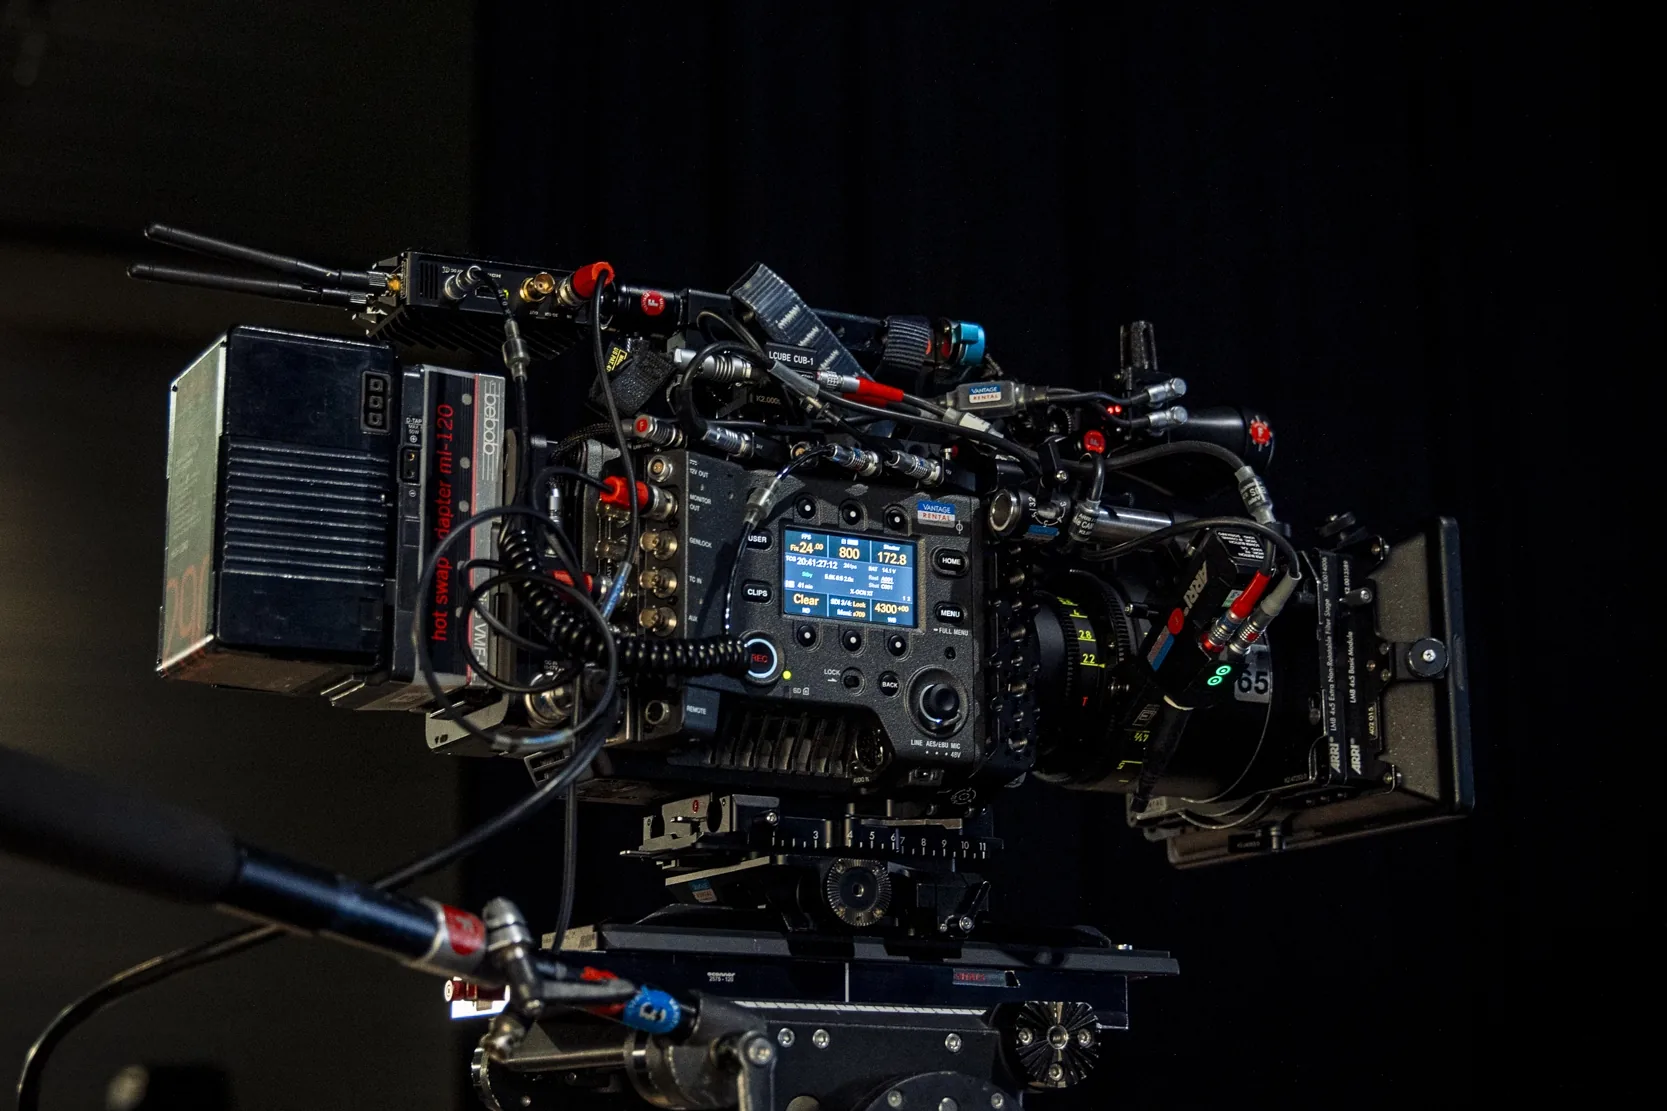
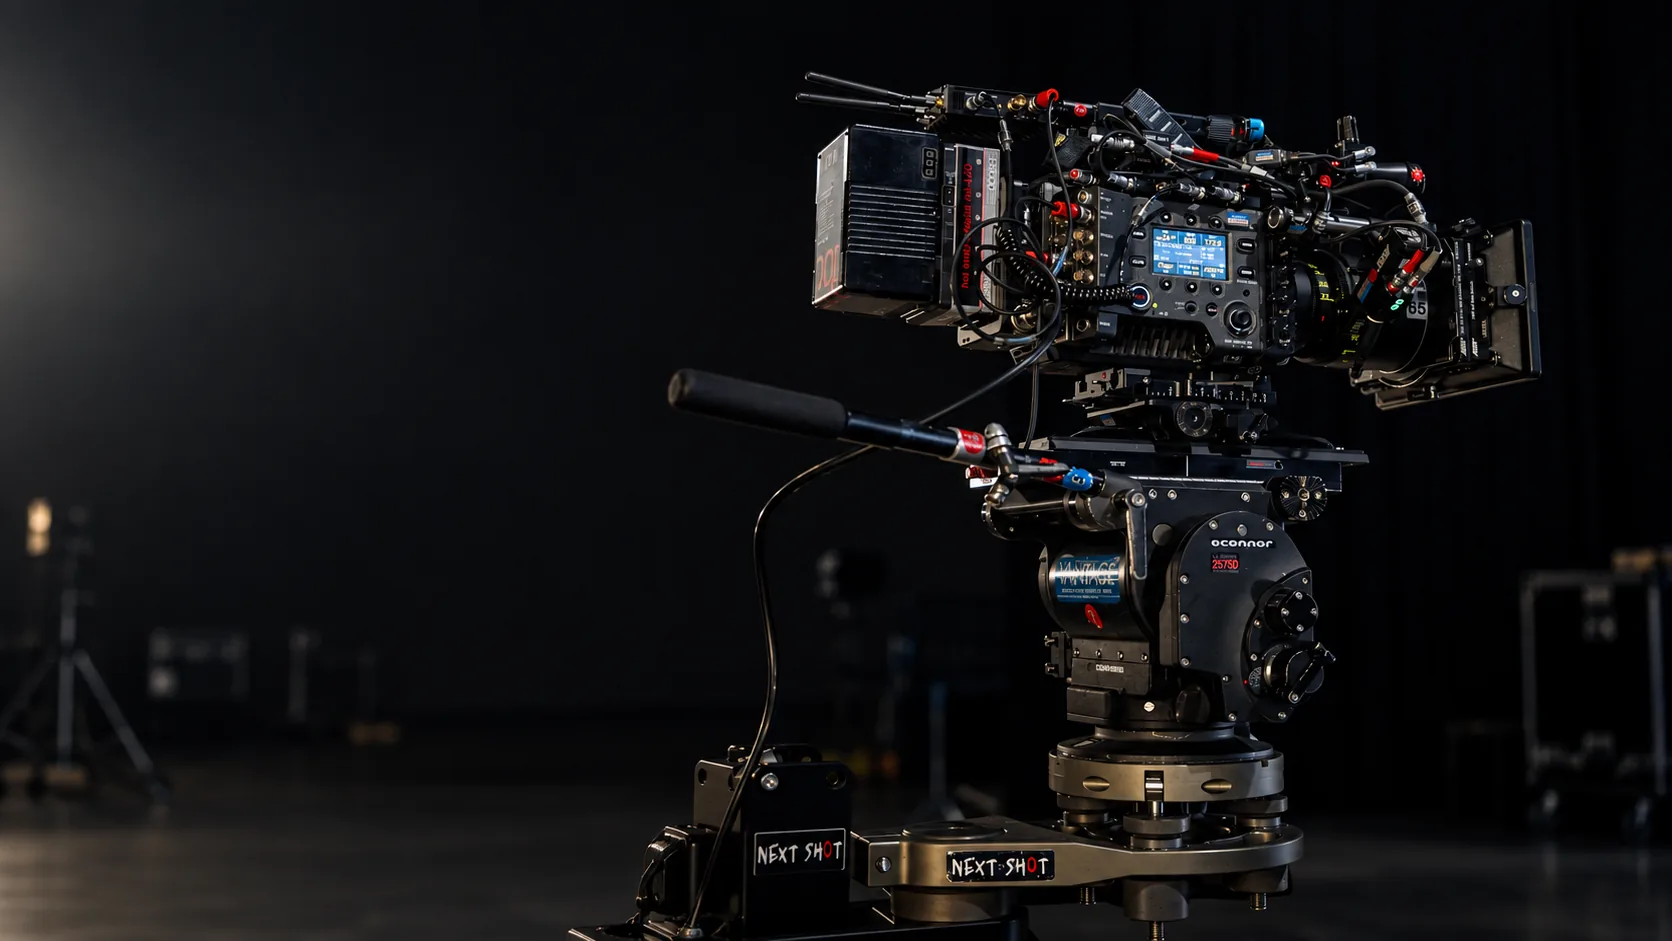
feat(audiovisuel): deux cadrages d'en-tete, un paysage et un portrait
Peter a fourni deux versions retravaillees de sa prise de vue : un 16:9
(1672x941) et un 9:16 (941x1672). Le paysage place le rig a droite, ce qui
libere le studio sombre sous le titre — bien meilleur que le recadrage que
j'avais fait moi-meme au centre.

C'est de la **direction artistique**, pas du choix de resolution : deux
compositions differentes selon la largeur. `PageHeader` recoit donc une prop
`imageMobile` optionnelle et, quand elle est presente, rend un `<picture>`
au lieu de `next/image`.

Pourquoi `<picture>` et pas `next/image` : ce dernier fait du resolution
switching, la meme image a plusieurs largeurs, et ignore un `srcSet`
manuel. Les deux contournements courants sont pires — deux `<Image>` dont
un masque en `display:none` sont **tous deux telecharges**, ce qui doublerait
le poids sur la page dont on surveille justement le LCP. Avec
`<source media>`, le navigateur ne prend que la variante retenue : verifie
en CDP, 1 seul fichier telecharge de chaque cote, sur le build de
production comme en dev.

A noter : `@next/next/no-img-element` ne se declenche pas ici. Ce n'est pas
une regle contournee, c'est l'exception que la regle prevoit pour un `<img>`
enfant de `<picture>` — soit exactement ce motif.

Palier a 900 px, celui ou `.page-header.has-photo` change deja de
comportement dans globals.css. Un seul palier, au meme endroit. Deux regles
CSS ajoutees pour que l'`<img>` nu remplisse le cadre comme le faisait
`fill`, que `next/image` posait en style inline.
[…]

diff --git a/src/components/sections/PageHeader.tsx b/src/components/sections/PageHeader.tsx
@@ -29,6 +29,17 @@ type WithPhoto = CommonProps & {
   image: string;
   /** Description de la photo. Obligatoire : ce sont des images de contenu. */
   imageAlt: string;
+  /**
+   * Variante de la photo servie sous 901 px — **direction artistique**, pas
+   * simple changement de résolution : un second cadrage, généralement en
+   * portrait, pour une colonne étroite et haute où `cover` amputerait la
+   * largeur du visuel paysage.
+   *
+   * Sa présence change la façon de rendre l'image (cf. le commentaire du
+   * `<picture>` plus bas). Sans elle, le comportement reste celui des cinq
+   * autres pages à photo, inchangé.
+   */
+  imageMobile?: string;
   /** Cadrage de la photo (CSS object-position). Défaut "72% center". */
   imagePosition?: string;
   /** Tonalité : "dark" (nuit, défaut) ou "bright" (jour, moins assombri). */
@@ -38,6 +49,7 @@ type WithPhoto = CommonProps & {
 type WithoutPhoto = CommonProps & {
   image?: never;
   imageAlt?: never;
+  imageMobile?: never;
   imagePosition?: never;
   photoTone?: never;
 };
@@ -65,6 +77,7 @@ export function PageHeader(props: Props) {
   const photo = props.image
     ? {
         src: props.image,
+        mobileSrc: props.imageMobile,
         alt: props.imageAlt,
         position: props.imagePosition ?? "72% center",
         tone: props.photoTone ?? "dark",
@@ -81,21 +94,67 @@ export function PageHeader(props: Props) {
         {photo ? (
           <>
             <div className="page-header-photo">
-              {/*
-                `priority` : sur ces pages, la photo d'en-tête est l'élément le
-                plus grand au-dessus de la ligne de flottaison, donc le candidat
-                LCP. Sans lui, next/image la charge en `lazy` et retarde
-                justement la mesure qui compte.
-                `sizes="100vw"` : elle occupe toute la largeur du viewport.
-              */}
-              <Image
-                src={photo.src}
-                alt={photo.alt}
-                fill
-                priority
-                sizes="100vw"
-                style={{ objectPosition: photo.position }}
-              />
+              {photo.mobileSrc ? (
+                /*
+                 * Deux cadrages distincts selon la largeur : `<picture>` et
+                 * non `next/image`.
+                 *
+                 * Ce n'est pas un renoncement à l'optimiseur mais la seule
+                 * forme correcte ici. `next/image` fait du **resolution
+                 * switching** — la même image à plusieurs largeurs — alors
+                 * qu'il s'agit de **direction artistique** : deux compositions
+                 * différentes. Les deux contournements habituels sont pires :
+                 * deux `<Image>` dont un masqué en `display:none` sont tous
+                 * deux téléchargés par le navigateur, ce qui double le poids
+                 * sur la page dont on surveille le LCP ; et un `srcSet` manuel
+                 * sur `<Image>` est ignoré.
+                 *
+                 * Avec `<source media>`, le navigateur ne télécharge que la
+                 * variante retenue. Les fichiers sont déjà encodés en WebP à
+                 * la bonne taille (cf. `public/images/CREDITS.md`), donc ce que
+                 * l'optimiseur aurait apporté en plus se limite à l'AVIF et aux
+                 * variantes de densité.
+                 *
+                 * 900 px : le palier auquel `.page-header.has-photo` change
+                 * déjà de comportement dans `globals.css` (min-height au-delà
+                 * de 901 px). Un seul palier, au même endroit.
+                 *
+                 * `fetchPriority="high"` remplace le `priority` de
+                 * `next/image` : sans lui la photo d'en-tête, candidate LCP,
+                 * partirait en file basse.
+                 */
+                <picture>
+                  <source
+                    media="(max-width: 900px)"
+                    srcSet={photo.mobileSrc}
+                  />
+                  <img
+                    src={photo.src}
+                    alt={photo.alt}
+                    fetchPriority="high"
+                    decoding="async"
+                    style={{ objectPosition: photo.position }}
+                  />
+                </picture>
+              ) : (
+                <>
+                  {/*
+                    `priority` : sur ces pages, la photo d'en-tête est l'élément
+                    le plus grand au-dessus de la ligne de flottaison, donc le
+                    candidat LCP. Sans lui, next/image la charge en `lazy` et
+                    retarde justement la mesure qui compte.
+                    `sizes="100vw"` : elle occupe toute la largeur du viewport.
+                  */}
+                  <Image
+                    src={photo.src}
+                    alt={photo.alt}
+                    fill
+                    priority
+                    sizes="100vw"
+                    style={{ objectPosition: photo.position }}
+                  />
+                </>
+              )}
             </div>
             <div className="page-header-photo-scrim" />
             {glow && <div className="page-header-glow" />}

diff --git a/src/app/transport-materiel-audiovisuel-paris/page.tsx b/src/app/transport-materiel-audiovisuel-paris/page.tsx
@@ -425,8 +425,9 @@ export default function TransportMaterielAudiovisuelPage() {
         accent="à Paris &amp; en Île-de-France"
         lead="Caméras, optiques, lumière, machinerie, décors et régie — enlevés chez vos loueurs et livrés sur vos lieux de tournage, 24h/24. Une flotte dédiée de 3 à 20 m³ aux normes Euro 6d, des équipes habituées au matériel sensible, et un dispatch joignable en permanence."
         image="/images/audiovisuel/camera-cinema.webp"
+        imageMobile="/images/audiovisuel/camera-cinema-mobile.webp"
         imageAlt="Caméra de cinéma équipée d'une optique de série, montée sur tête fluide sur un plateau de tournage"
-        imagePosition="60% center"
+        imagePosition="70% center"
         glow={false}
         photoTone="bright"
       />

diff --git a/src/app/globals.css b/src/app/globals.css
@@ -2177,6 +2177,19 @@ section {
 .page-header-photo img {
   object-fit: cover;
 }
+/* En-tête à deux cadrages (`imageMobile`), rendu en `<picture>` plutôt qu'en
+   `next/image` : l'`<img>` nu n'hérite pas du positionnement absolu que `fill`
+   posait en style inline, il faut donc le reproduire ici. Le `<picture>`
+   lui-même est `display: inline` par défaut et ne doit pas créer de boîte. */
+.page-header-photo picture {
+  display: contents;
+}
+.page-header-photo picture > img {
+  position: absolute;
+  inset: 0;
+  width: 100%;
+  height: 100%;
+}
 /* dégradés : sombre à gauche (lisibilité du texte) + pénombre haut/bas */
 .page-header-photo-scrim {
   position: absolute;

diff --git a/public/images/CREDITS.md b/public/images/CREDITS.md
@@ -10,27 +10,49 @@ documentée plus bas (`campagnes/fashion-week-podium.webp`, Pexels).
 | `/express` | `express/van-motion.webp` |
 | `/colis` | `colis/truck-boxes.webp` |
 | `/contact` | `contact/dispatch-desk.webp` |
-| `/transport-materiel-audiovisuel-paris` | `audiovisuel/camera-cinema.webp` |
+| `/transport-materiel-audiovisuel-paris` | `audiovisuel/camera-cinema.webp` + `audiovisuel/camera-cinema-mobile.webp` |
 | `/` (bloc « temps fort ») | `campagnes/fashion-week-podium.webp` |
 
-## `audiovisuel/camera-cinema.webp` — ce qu'elle montre
+## `audiovisuel/` — deux cadrages pour un seul en-tête
 
-Fournie par Peter le 2026-09-16 (`H24_TRANSPORTS_-16.webp`) pour l'en-tête de
-`/transport-materiel-audiovisuel-paris`, restée sans visuel jusque-là.
-Recadrée en bande 3:2 (1667×1111 depuis y=500 sur un original 1667×2500,
-portrait), WebP qualité 82 — **sans agrandissement**, comme
-`express/van-motion.webp` et `colis/truck-boxes.webp`.
+C'est le **seul en-tête du site à deux visuels**, et le seul rendu en
+`<picture>` plutôt qu'en `next/image` (cf. le commentaire dans
+`PageHeader.tsx`). Ce n'est pas du choix de résolution mais de la
+**direction artistique** : deux compositions différentes.
+
+| Fichier | Dimensions | Poids | Servi |
+|---|---|---|---|
+| `camera-cinema.webp` | 1672 × 941 (16:9) | 77 ko | au-dessus de 900 px |
+| `camera-cinema-mobile.webp` | 941 × 1672 (9:16) | 114 ko | jusqu'à 900 px |
+
+Le palier de 900 px n'est pas arbitraire : c'est celui où
+`.page-header.has-photo` change déjà de comportement dans `globals.css`
+(`min-height` au-delà de 901 px). Un seul palier, au même endroit.
+
+Le cadrage paysage place le rig **à droite**, ce qui laisse le studio sombre
+sous le titre — c'est ce qui rend le H1 lisible sans surcharger le voile.
+Ne pas recadrer au centre.
+
+Fournies par Peter le 2026-09-16, en versions retravaillées de sa prise de
+vue `H24_TRANSPORTS_-16.webp` du même jour. Converties en WebP qualité 82,
+**sans recadrage ni redimensionnement de ma part** : les deux fichiers
+arrivaient déjà aux bons formats.
 
 Le rig porte les marquages **Vantage** et **Next Shot**, deux noms présents
 dans `src/data/clients.ts` et affichés sur l'accueil. C'est donc du matériel
 de clients réels, et non une marque tierce comme l'écran de régie retiré du
-visuel Fashion Week ci-dessous — la remplacer par une image de banque ferait
-perdre cette authenticité.
+visuel Fashion Week ci-dessous — les remplacer par des images de banque
+ferait perdre cette authenticité.
+
+⚠ Provenance à confirmer par Peter : ces visuels sont traités comme des
+prises de vue H24. Si le tirage d'origine est l'œuvre d'un tiers
+(photographe d'un client, loueur), le droit d'usage doit être vérifié et
+cette section corrigée.
 
 Historique : une photo Pexels (2873486, caméra Canon) a occupé cet en-tête
-quelques heures le même jour, avant d'être remplacée par celle-ci. Les deux
-écueils rencontrés pendant cette recherche méritent d'être retenus pour la
-prochaine fois :
+quelques heures le même jour, avant d'être remplacée par ces deux visuels.
+Les deux écueils rencontrés pendant cette recherche méritent d'être retenus
+pour la prochaine fois :
 
 - **la licence Pexels ne couvre pas les autorisations de personnes.** Un
   visage reconnaissable sur une page qui promeut un service commercial est
@@ -72,6 +94,7 @@ régénérée, refaire le flou — il n'est pas dans le fichier d'origine
 (`event.jpg` / `contact.jpg` du poste de travail).
 
 Les photos d'en-tête sont recadrées en 3:2 puis redimensionnées en 1920×1280,
-sauf `express/van-motion.webp` (1536×1024), `colis/truck-boxes.webp`
-(1448×965) et `audiovisuel/camera-cinema.webp` (1667×1111), livrées à la
-résolution de leur source — pas d'agrandissement.
+sauf `express/van-motion.webp` (1536×1024) et `colis/truck-boxes.webp`
+(1448×965), livrées à la résolution de leur source — pas d'agrandissement.
+`audiovisuel/` est le seul en-tête à deux visuels et ne suit pas ce gabarit
+(16:9 et 9:16, voir sa section).
